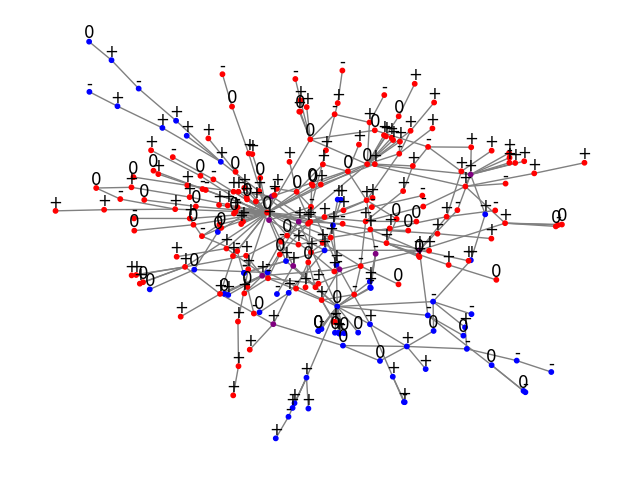
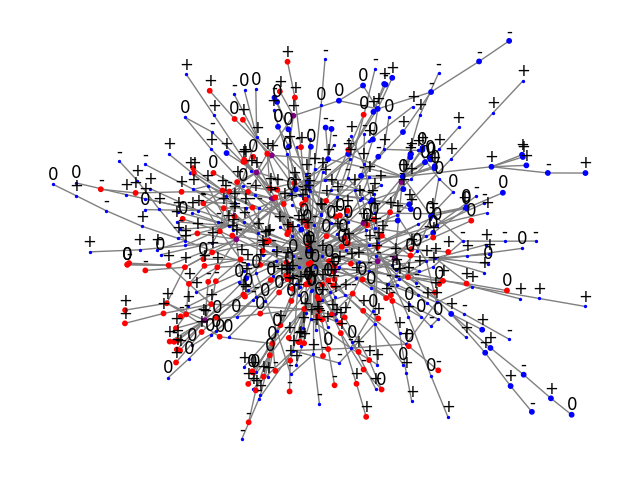
Updated

diff --git a/MakePlots.py b/MakePlots.py
@@ -4,11 +4,97 @@ import json
 import networkx as nx
 import matplotlib.pyplot as plt
 import numpy as np
-from collections import Counter
+import random
+from sklearn.cluster import KMeans
 
 # Read data from JSON file
 with open('resources/comments.json', 'r') as f:
     comments = json.load(f)
+
+# High polarization score example input data:
+#
+# comments = [
+#     [
+#         {
+#             "id": "comment1",
+#             "author": "User1",
+#             "parent_id": "",
+#             "content": "I strongly believe in this.",
+#             "polarity": 0.8
+#         },
+#         {
+#             "id": "comment2",
+#             "author": "User2",
+#             "parent_id": "comment1",
+#             "content": "Absolutely! It's the best option.",
+#             "polarity": 0.7
+#         },
+#         {
+#             "id": "comment3",
+#             "author": "User3",
+#             "parent_id": "comment1",
+#             "content": "This is completely wrong. We should never do that.",
+#             "polarity": -0.6
+#         },
+#         {
+#             "id": "comment4",
+#             "author": "User4",
+#             "parent_id": "comment2",
+#             "content": "I strongly disagree. We need to explore other alternatives.",
+#             "polarity": -0.7
+#         },
+#         {
+#             "id": "comment5",
+#             "author": "User5",
+#             "parent_id": "comment3",
+#             "content": "You're all mistaken! There's a better way.",
+#             "polarity": -0.8
+#         }
+#     ]
+# ]
+
+
+# Low polarization score example input data:
+
+# comments = [
+#     [
+#         {
+#             "id": "comment1",
+#             "author": "User1",
+#             "parent_id": "",
+#             "content": "I think this could work.",
+#             "polarity": 0.3
+#         },
+#         {
+#             "id": "comment2",
+#             "author": "User2",
+#             "parent_id": "comment1",
+#             "content": "It's worth considering.",
+#             "polarity": 0.2
+#         },
+#         {
+#             "id": "comment3",
+#             "author": "User3",
+#             "parent_id": "comment1",
+#             "content": "I'm not sure about this idea.",
+#             "polarity": -0.1
+#         },
+#         {
+#             "id": "comment4",
+#             "author": "User4",
+#             "parent_id": "comment2",
+#             "content": "I don't have a strong opinion on this matter.",
+#             "polarity": 0.0
+#         },
+#         {
+#             "id": "comment5",
+#             "author": "User5",
+#             "parent_id": "comment3",
+#             "content": "Can you provide more details?",
+#             "polarity": 0.1
+#         }
+#     ]
+# ]
 
 
 def remove_nodes(G, post):
@@ -59,18 +145,26 @@ def create_graph(post):
     for comment in post:
         author = comment['author']
         polarity = comment['polarity']
-        G.add_node(comment['author'], label=get_sentiment(comment['polarity']))
-        if polarity == '':
-            polarity_dict[author] = 0.0
-        else:
-            polarity_dict[author] = polarity
-    #print(polarity_dict)
+        G.add_node(author, label=polarity)
+        polarity_dict[author] = float(polarity) if polarity != '' else 0.0
 
     # Add edges to the graph
     create_edges(G, post)
 
     # Remove the nodes we don't need or causing a problem
     remove_nodes(G, post)
+
+    # Draw the graph
+    pos = nx.spring_layout(G, k=0.05)
+    nx.draw(G, pos, node_size=2, node_color='blue', edge_color='gray')
+
+    # Add labels in the graph
+    label_offset = 0.04  # A small offset to position the labels perfectly
+    label_pos = {k: (v[0], v[1] + label_offset) for k, v in pos.items()}
+
+    # Use the get_sentiment function to get the symbol we want to print for each node ("0", "+", "-")
+    node_labels = {node: get_sentiment(G.nodes[node].get('label')) for node in G.nodes()}
+    nx.draw_networkx_labels(G, pos=label_pos, labels=node_labels)
 
     return G
 
@@ -106,39 +200,146 @@ def create_graph2(post1, post2):
     # Add labels in the graph
     label_offset = 0.04  # A small offset to position the labels perfectly
     label_pos = {k: (v[0], v[1] + label_offset) for k, v in pos.items()}
-    nx.draw_networkx_labels(merged_graph, pos=label_pos, labels=nx.get_node_attributes(merged_graph, 'label'))
+
+    # Use the get_sentiment function to get the symbol we want to print for each node ("0", "+", "-")
+    node_labels = {node: get_sentiment(merged_graph.nodes[node].get('label')) for node in merged_graph.nodes()}
+    nx.draw_networkx_labels(merged_graph, pos=label_pos, labels=node_labels)
 
     return merged_graph
 
 
-def calculate_polarization_score(G, polarity_dict):
-    # Get the polarity values for each node
+# def calculate_polarization_score(G, polarity_dict):
+#     node_values = [float(polarity_dict[node]) if node in polarity_dict else 0.0 for node in G.nodes()]
+#     sum_node_values = sum(node_values)
+#
+#     if sum_node_values != 0:
+#         initial_distribution = np.array(node_values) / sum_node_values
+#         alpha = 0.85
+#         final_distribution = nx.pagerank(G, alpha=alpha, personalization=None, max_iter=1000, tol=1e-06)
+#         initial_polarity_values = np.array([float(polarity_dict[node]) if node in polarity_dict else 0.0 for node in final_distribution.keys()])
+#         polarization_score = np.sum(np.abs(initial_distribution - initial_polarity_values))
+#         normalization_factor = len(G.nodes()) - 1
+#         polarization_score /= normalization_factor
+#
+#         # Normalize the polarization score to be within the range of 0 to 1
+#         polarization_score = min(max(polarization_score, 0), 1)
+#     else:
+#         polarization_score = 0.0  # Set polarization score to 0 if sum_node_values is 0
+#
+#     return polarization_score
+
+
+def calculate_polarization_score(G, polarity_dict, num_walks, walk_length):
+    # Step 1: Calculate the initial distribution of polarity values for nodes in the graph
     node_values = [float(polarity_dict[node]) if node in polarity_dict else 0.0 for node in G.nodes()]
+    sum_node_values = sum(node_values)
 
-    # Compute the initial and final distributions
-    initial_distribution = np.array(node_values) / sum(node_values)
-    final_distribution = np.zeros(len(G.nodes()))
+    # Step 2: Calculate the polarization score using random walk
+    if sum_node_values != 0:
+        # Calculate the initial distribution by dividing each node's polarity value by the sum of all polarity values
+        initial_distribution = np.array(node_values) / sum_node_values
 
-    # Create a dictionary to store the indices of the nodes
-    node_indices = {node: idx for idx, node in enumerate(G.nodes())}
+        # Perform random walks from each node to estimate the probability of reaching a node with a specific polarity
+        walk_probabilities = random_walk_probability(G, num_walks=num_walks, walk_length=walk_length)
 
-    # Perform the random walk
-    alpha = 0.85  # Damping factor
-    for i in range(100):
-        for node in G.nodes():
-            neighbors = [n for n in G.neighbors(node) if G.has_edge(node, n)]
-            contribution = sum(initial_distribution[node_indices[neighbor]] for neighbor in neighbors) if neighbors else 0
-            final_distribution[node_indices[node]] += alpha * (contribution / len(neighbors)) if neighbors else 0
+        # Calculate the initial polarity values for nodes in the same order as the walk probabilities keys
+        initial_polarity_values = np.array(
+            [float(polarity_dict[node]) if node in polarity_dict else 0.0 for node in walk_probabilities.keys()])
 
-        final_distribution += (1 - alpha) * (initial_distribution / len(G.nodes()))
-        initial_distribution = final_distribution.copy()
-        final_distribution = np.zeros(len(G.nodes()))
+        # Calculate the polarization score as the absolute difference between initial distribution and walk probabilities
+        polarization_score = np.sum(np.abs(initial_distribution - initial_polarity_values))
 
-    # Calculate the polarization score
-    polarization_score = np.sum(np.abs(initial_distribution - 1 / len(G.nodes())))
+        # Calculate a normalization factor based on the number of nodes in the graph
+        normalization_factor = len(G.nodes()) - 1
 
+        # Normalize the polarization score to be within the range of 0 to 1
+        polarization_score /= normalization_factor
+        polarization_score = min(max(polarization_score, 0), 1)
+    else:
+        # If the sum of node polarity values is 0, set the polarization score to 0
+        polarization_score = 0.0
+
+    # Step 3: Return the calculated polarization score
     return polarization_score
 
+
+def random_walk_probability(G, num_walks, walk_length):
+    """
+    Perform random walks on the graph G and calculate the probability of reaching each node with a specific polarity.
+
+    Parameters:
+        G (nx.Graph): The input graph.
+        num_walks (int): Number of random walks to perform from each node (default: 100).
+        walk_length (int): Length of each random walk (default: 10).
+
+    Returns:
+        dict: A dictionary with nodes as keys and their corresponding probability of reaching with a specific polarity as values.
+    """
+    walk_probabilities = {}
+    for node in G.nodes():
+        walk_counts = {polarity: 0 for polarity in set(G.nodes[node].get('label') for node in G.nodes()) if
+                       polarity != ''}
+
+        for _ in range(num_walks):
+            current_node = node
+            for _ in range(walk_length):
+                neighbors = list(G.neighbors(current_node))
+                if len(neighbors) == 0:
+                    break
+                current_node = random.choice(neighbors)
+                current_polarity = G.nodes[current_node].get('label')
+                if current_polarity is not None and current_polarity != '':
+                    walk_counts[current_polarity] += 1
+
+        total_walks = sum(walk_counts.values())
+        walk_probabilities[node] = {polarity: count / total_walks for polarity, count in walk_counts.items()}
+
+    return walk_probabilities
+
+
+def SCG(G, k):
+    # Get the polarity values of nodes and their labels
+    polarity_values = []
+    node_labels = {}
+
+    # Loop through each node in the graph and extract the 'label' attribute which is the sentiment analysis - "polarity"
+    for node in G.nodes():
+        polarity = G.nodes[node].get('label')
+
+        # If 'label' exists and is not an empty string, attempt to convert it to a floating-point number
+        if polarity is not None and polarity != "":
+            try:
+                polarity_values.append(float(polarity))
+                node_labels[node] = polarity
+            except ValueError:
+                # If the conversion fails, skip this node and continue to the next one
+                continue
+
+    # Apply k-means clustering
+    if len(polarity_values) < k:
+        return []  # If there are not enough distinct polarity values to create 'k' clusters, return an empty list
+
+    # Use k-means clustering to group polarity values into 'k' clusters
+    kmeans = KMeans(n_clusters=k, random_state=0, n_init=10).fit(np.array(polarity_values).reshape(-1, 1))
+    cluster_labels = kmeans.labels_
+
+    # Create a group for each cluster
+    groups = {}
+
+    # Iterate through the nodes and their labels and group nodes with the same cluster label into subgraphs
+    for i, (node, label) in enumerate(node_labels.items()):
+        group_label = cluster_labels[i]  # Get the cluster label for the current node
+        group_name = f"group{group_label}"
+
+        if group_name not in groups:
+            # If the group doesn't exist, create a new subgraph for this cluster
+            groups[group_name] = nx.Graph()
+
+        # Add the node to the appropriate subgraph with its label
+        groups[group_name].add_node(node, label=label)
+
+    # Return the list of groups, each representing one cluster
+    return list(groups.values())
 
 def save_to_file(ctr):
     # Save each graph to a file
@@ -181,27 +382,28 @@ def save_to_file2(ctr, subr, contr):
 #     save_to_file(counter)
 #     counter += 1
 
+
 counter = 1
-controversial = 0
-subreddit = 1
-# controversial: 0:no, 1:yes
-# subreddit: 0:different, 1:same
+controversial = 0  # controversial: 0:no, 1:yes
+subreddit = 1  # subreddit: 0:different, 1:same
+
+num_walks = 100  # Number of random walks to perform from each node
+walk_length = 10  # Length of each random walk
+k = 3  # The number of the groups I want to detect
 
 for i in range(len(comments)):
     polarity_dict = {}
     G = create_graph(comments[i])
 
-    # Draw the graph
-    pos = nx.spring_layout(G, k=0.05, scale=0.1, iterations=50)
-    nx.draw(G, pos, node_size=2, node_color='blue', edge_color='gray')
-
-    # Add labels in the graph
-    label_offset = 0.003  # A small offset to position the labels perfectly
-    label_pos = {k: (v[0], v[1] + label_offset) for k, v in pos.items()}
-    nx.draw_networkx_labels(G, pos=label_pos, labels=nx.get_node_attributes(G, 'label'))
-
-    polarization_score = calculate_polarization_score(G, polarity_dict)
+    polarization_score = calculate_polarization_score(G, polarity_dict, num_walks, walk_length)
     print(f"Polarization score for post {counter}: {polarization_score}")
+
+    # Detect groups based on agreement using SCG
+    groups = SCG(G, k)
+
+    # Print the nodes in each group
+    for i, group in enumerate(groups):
+        print(f"Group {i + 1}: {group.nodes()}")
 
     save_to_file(counter)
 
@@ -217,8 +419,15 @@ for i in range(len(comments)):
     if i < len(comments) - 1:
         G2 = create_graph2(comments[i], comments[i + 1])
 
-        polarization_score = calculate_polarization_score(G2, polarity_dict)
+        polarization_score = calculate_polarization_score(G2, polarity_dict, num_walks, walk_length)
         print("Polarization score for posts {} and {}: {}".format(counter, counter + 1, polarization_score))
+
+        # Detect groups based on agreement using SCG
+        groups = SCG(G2, k)
+
+        # Print the nodes in each group
+        for i, group in enumerate(groups):
+            print(f"Group {i + 1}: {group.nodes()}")
 
         save_to_file2(counter, subreddit, controversial)
 
